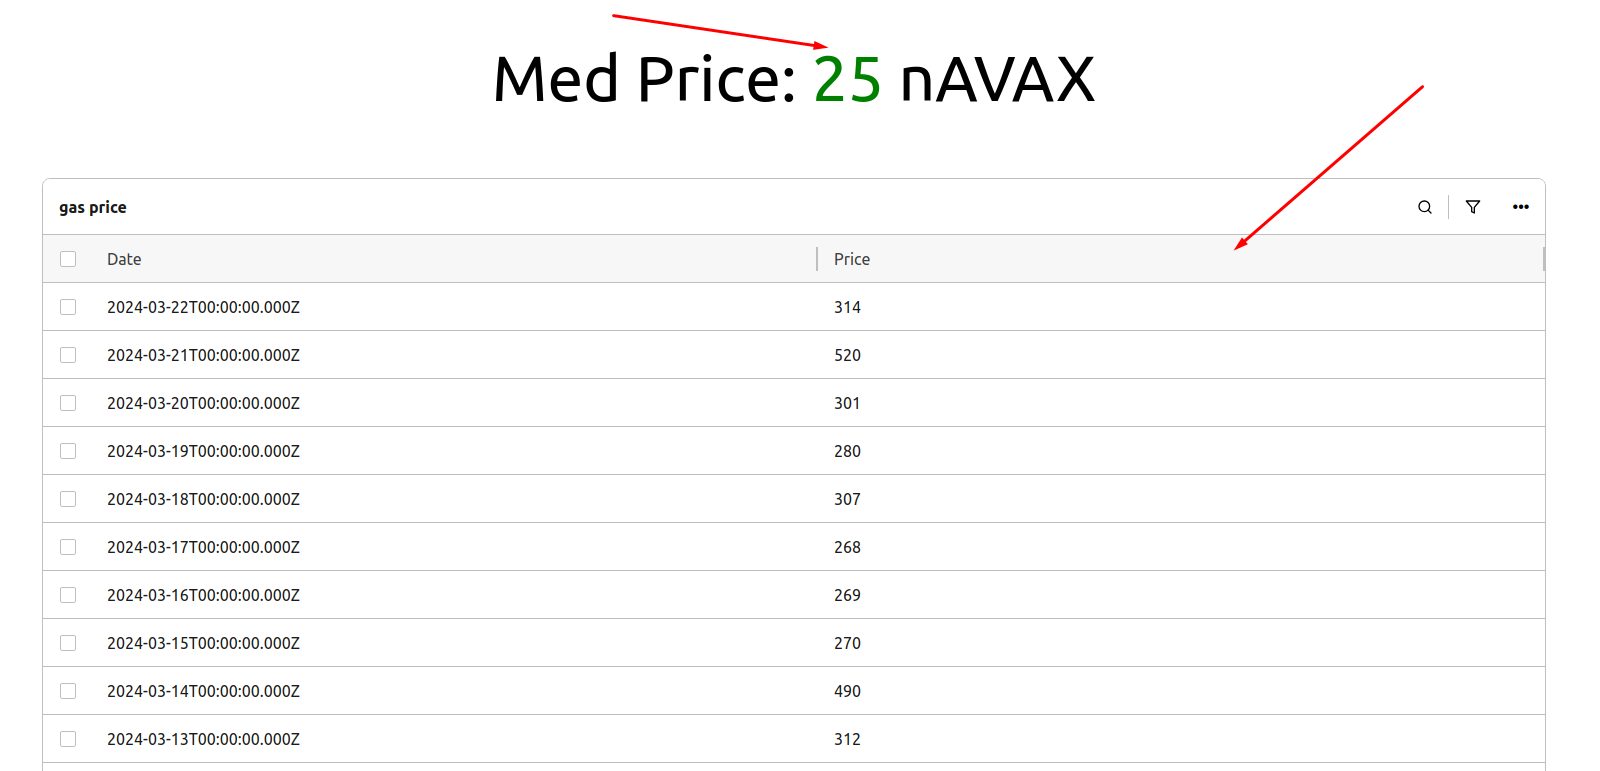
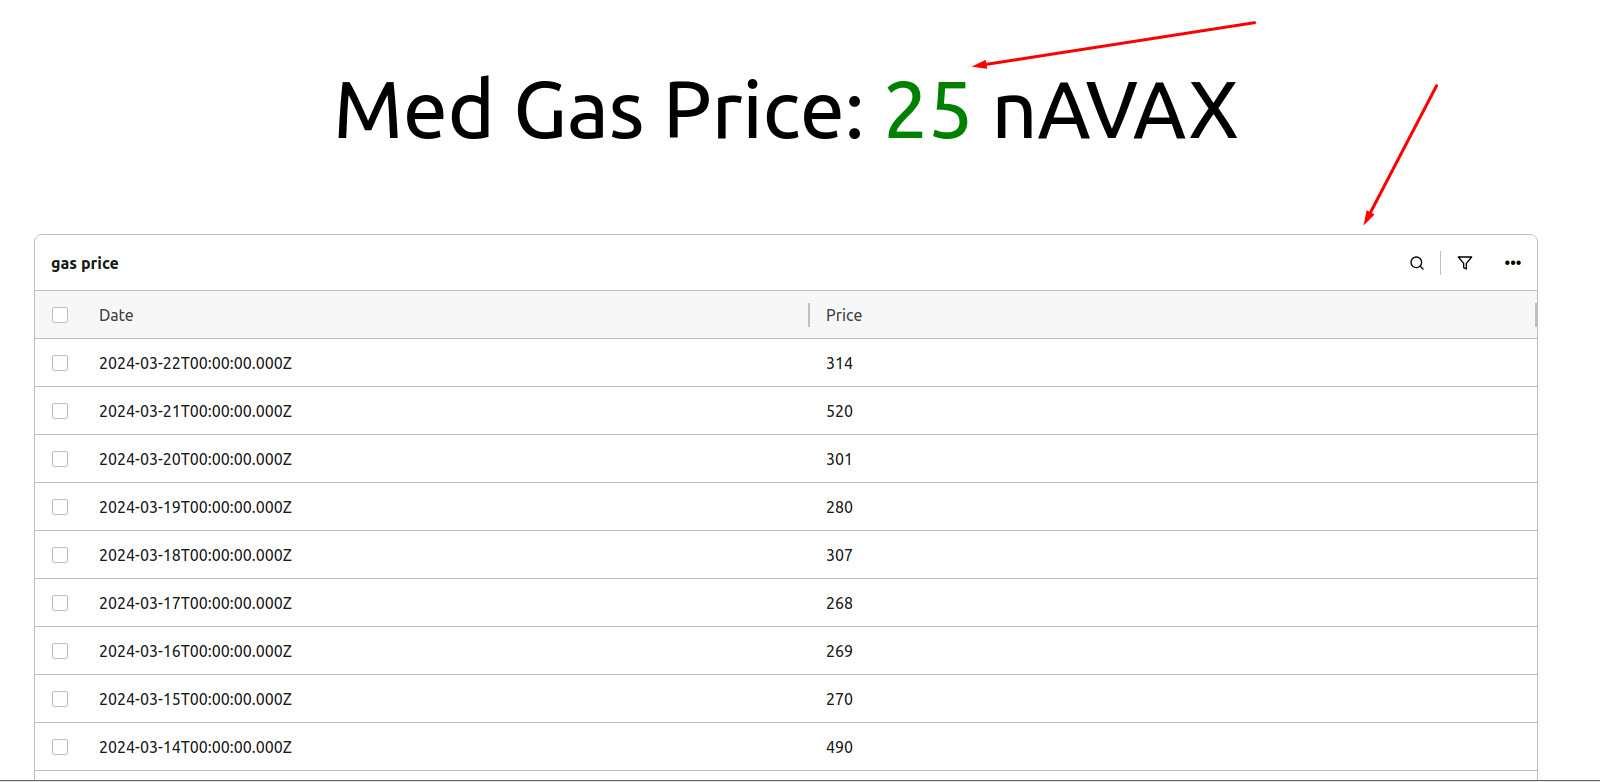
title fix

diff --git a/frontend/src/App.tsx b/frontend/src/App.tsx
@@ -46,7 +46,7 @@ function App() {
           </>
         )
       }
-      <p className='text-center lg-font'>Med Price: <span className='color-green'>{ medPrice && medPrice}</span> nAVAX</p>
+      <p className='text-center lg-font'>Med Gas Price: <span className='color-green'>{ medPrice && medPrice}</span> nAVAX</p>
       {
         data && (
           <ReactTableUI data={data} title="gas price" />
